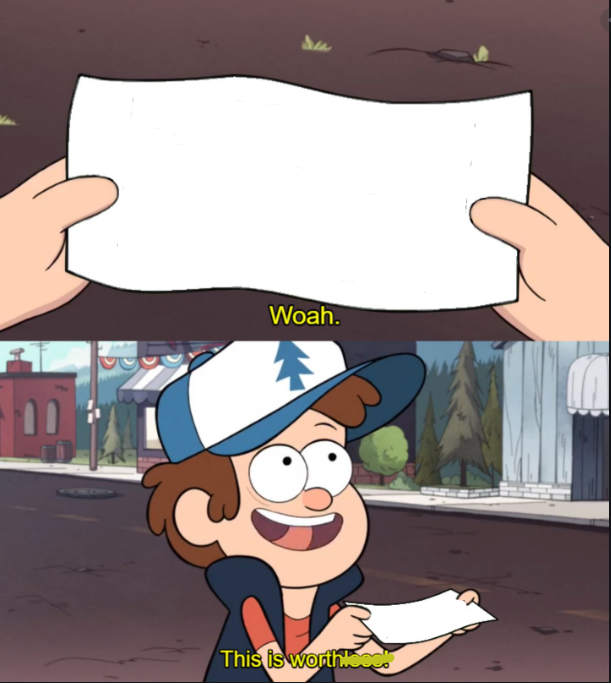
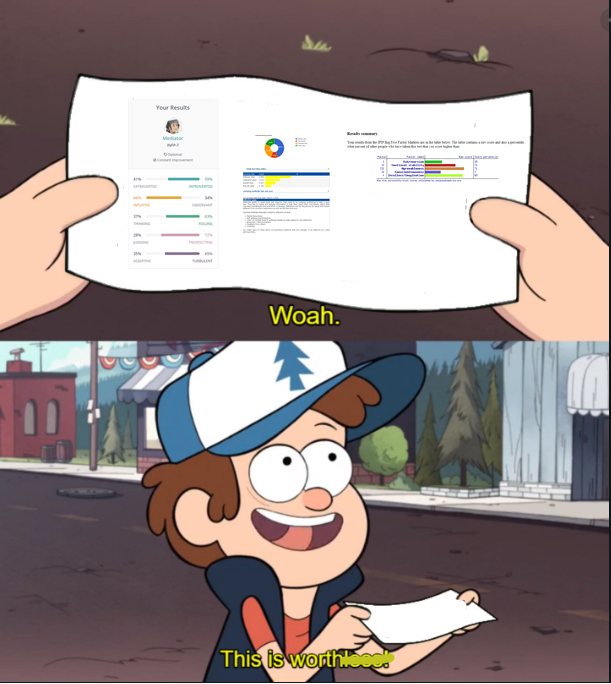
added meme to try out border-radius border color

diff --git a/index.html b/index.html
@@ -19,9 +19,6 @@
 
 				<!-- Header -->
 					<header id="header">
-						<div class="logo">
-							</div>
-
 						<div class="content">
 							<div class="inner">
 								<h1>Michael Scaringi</h1>
@@ -92,6 +89,10 @@
 								<br></br>
 								<h2>How should you take this into account when forming a team?</h2>
 								<p>When forming a team the results of these tests paint people with a broad stroke. While the Myers-Briggs test does provide valuable insight into a persons’ characteristics, It’s not a formula to describe how that person interacts and adapts in a team environment. If a group is lacking a leader someone with minimal leadership traits can adapt and take the reins of a group if required.</p>
+								<div class="image-dipper"> <img src="images/dipper-meme.png" alt="worth" width="100%" height= "100%"/>
+
+
+
 								<a href="#work"><strong>Ideal Job</strong></a> <br></br>
 								<a href="#Project"><strong>Project</strong></a>
 

diff --git a/assets/css/main.css b/assets/css/main.css
@@ -1683,3 +1683,12 @@ input, select, textarea {
   margin-left: auto;
   margin-right: auto;
 }
+.image-dipper{
+	border-radius: 10px;
+	border-color: white;
+	max-width: 100%;
+  height: auto;
+	display: block;
+  margin-left: auto;
+  margin-right: auto;
+}
